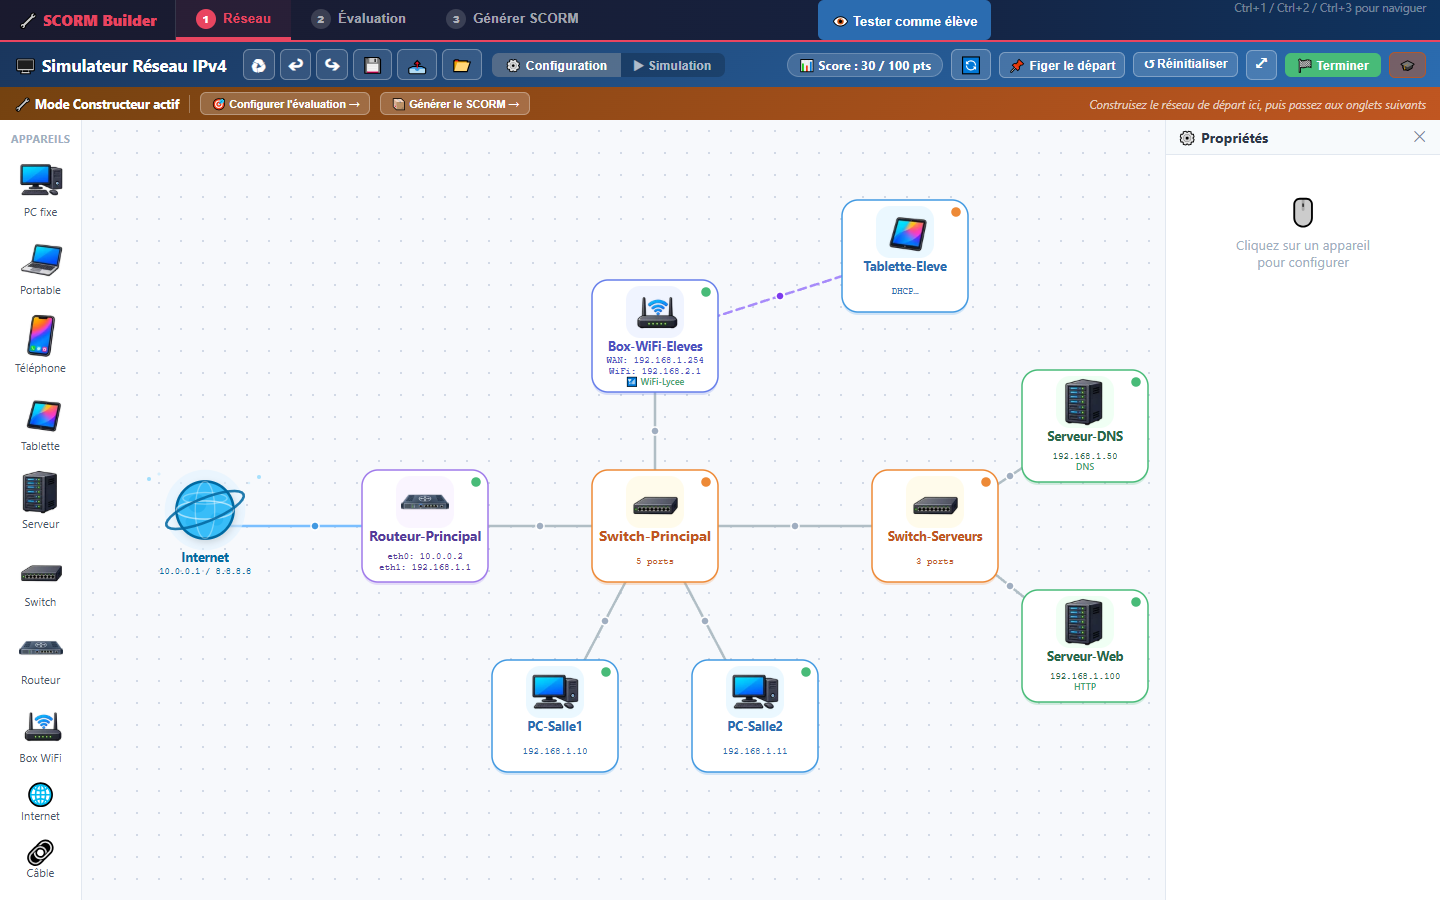
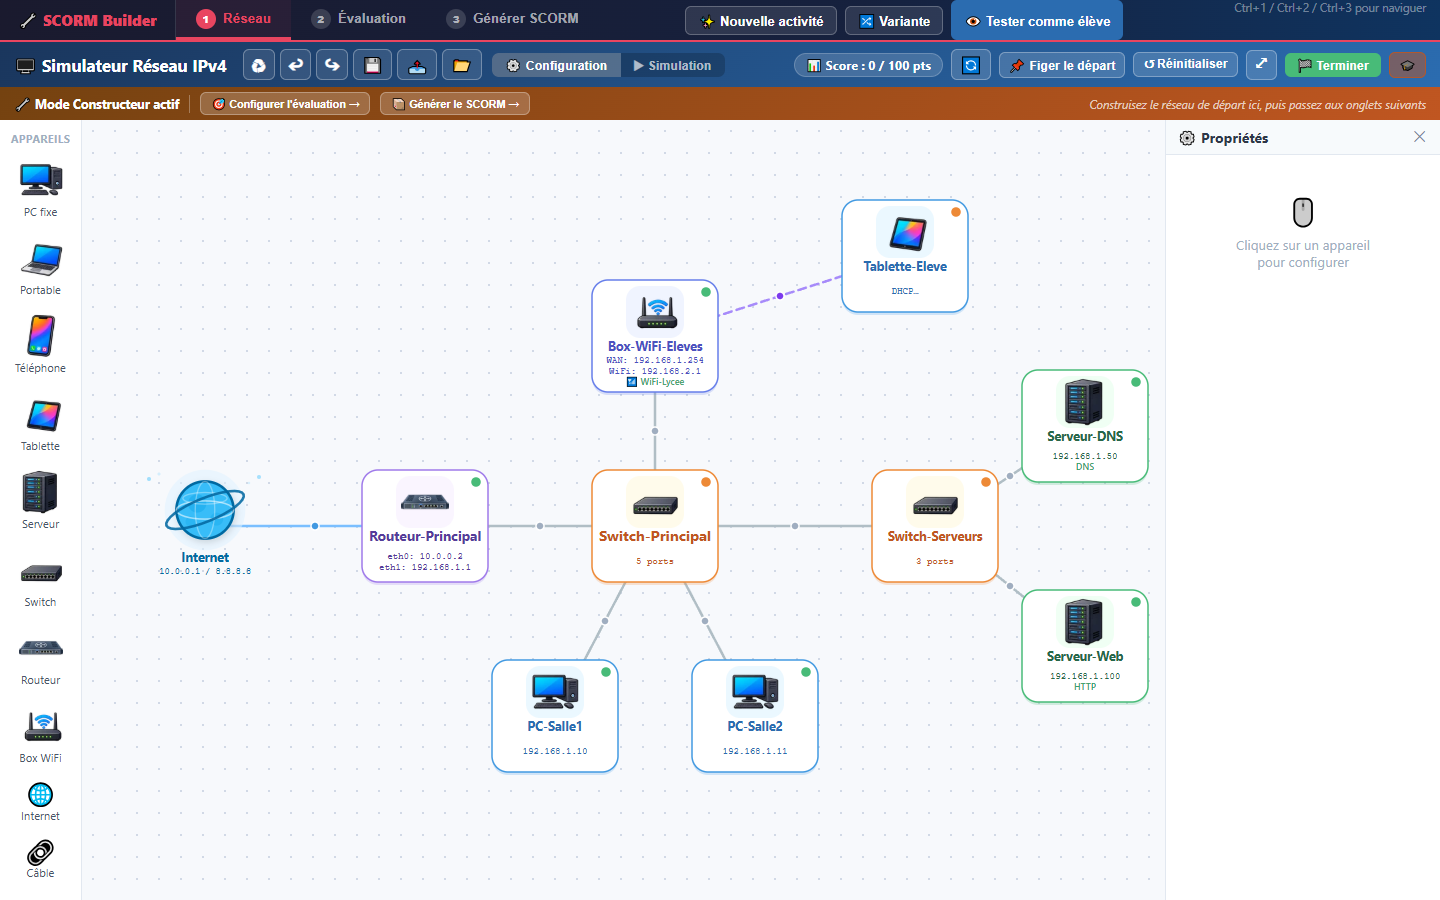
docs: release v1.9.1 — assistant « Nouvelle activité » et variantes
- Guide enseignant : section 2.4 (modèles type × thème × niveau, variantes),
  score du builder égal à celui de l'élève.
- Site : version 1.9.1, assistant et variantes présentés, capture du builder
  refaite, 21 objectifs pour le scénario du lycée.

Changed region(s): [[0.4688, 0.0, 0.7812, 0.0933]]

diff --git a/site/index.html b/site/index.html
@@ -143,7 +143,7 @@ footer .wrap { display: flex; flex-wrap: wrap; gap: 8px 24px; justify-content: s
 
 <header class="top">
   <div class="wrap">
-    <a class="brand" href="#">Simulateur Réseau IPv4<span class="mono">v1.9</span></a>
+    <a class="brand" href="#">Simulateur Réseau IPv4<span class="mono">v1.9.1</span></a>
     <nav aria-label="Sections de la page">
       <a href="#exemples">Exemples</a>
       <a href="#builder">Interface enseignant</a>
@@ -162,9 +162,9 @@ footer .wrap { display: flex; flex-wrap: wrap; gap: 8px 24px; justify-content: s
         <div class="phase">
           <p class="phase-label">Concevoir</p>
           <h3>Créer un réseau</h3>
-          <p>Glissez PC fixes et portables, téléphones, tablettes, serveurs, switchs, routeurs et box WiFi sur le canevas, câblez-les, puis réglez les adresses IP et les services HTTP, DNS et DHCP.</p>
+          <p>Glissez PC fixes et portables, téléphones, tablettes, serveurs, switchs, routeurs et box WiFi sur le canevas, câblez-les, puis réglez les adresses IP et les services HTTP, DNS et DHCP. Ou partez d’un modèle : choisissez le type d’activité, le thème et le niveau, et l’assistant propose réseau, objectifs, pannes et barème, vérifiés avant création.</p>
           <h3>Modifier un réseau</h3>
-          <p>Importez un exemple ou l’un de vos scénarios enregistrés en JSON, adaptez-le à votre classe, puis exportez une nouvelle version.</p>
+          <p>Importez un exemple ou l’un de vos scénarios enregistrés en JSON, adaptez-le à votre classe, puis exportez une nouvelle version. Une variante le décline en version plus guidée ou plus exigeante, ou place ses pannes sur d’autres postes.</p>
         </div>
 
         <div class="phase">
@@ -241,7 +241,7 @@ footer .wrap { display: flex; flex-wrap: wrap; gap: 8px 24px; justify-content: s
             <span class="level">Terminale NSI / BTS SIO</span>
             <h3>Réseau Lycée : diagnostic et réparation</h3>
             <p>Plus d’Internet, des tablettes privées de WiFi, un intranet muet : sept pannes à réparer et un poste à ajouter. Ce scénario couvre les 14 types d’objectifs.</p>
-            <ul class="facts"><li><b>10</b> appareils</li><li><b>20</b> objectifs</li><li><b>7</b> pannes</li><li>seuil <b>65 %</b></li></ul>
+            <ul class="facts"><li><b>10</b> appareils</li><li><b>21</b> objectifs</li><li><b>7</b> pannes</li><li>seuil <b>65 %</b></li></ul>
           </div>
           <div class="actions">
             <a class="btn primary small" href="demo/reseau-lycee/index.html">Tester</a>
@@ -259,6 +259,7 @@ footer .wrap { display: flex; flex-wrap: wrap; gap: 8px 24px; justify-content: s
         <h2>L’interface enseignant</h2>
         <p class="lead">Le SCORM Builder regroupe la conception et l’export dans un seul fichier HTML, sans installation ni compte.</p>
         <ul class="checks">
+          <li><b>Nouvelle activité et Variante :</b> une activité complète à partir d’un modèle, puis déclinée</li>
           <li><b>Réseau :</b> appareils, câbles, adressage et WiFi</li>
           <li><b>Évaluation :</b> objectifs et pannes dans l’ordre voulu, adresses imposées ou au choix de l’élève</li>
           <li><b>Test :</b> score en direct et retour à l’état de départ en un clic</li>
@@ -305,12 +306,12 @@ footer .wrap { display: flex; flex-wrap: wrap; gap: 8px 24px; justify-content: s
         <a class="doc" href="doc-prof.pdf">
           <h3>Guide enseignant</h3>
           <p>Créer une activité avec le builder et la déployer sur Moodle.</p>
-          <span class="mono">doc-prof.pdf · v1.9</span>
+          <span class="mono">doc-prof.pdf · v1.9.1</span>
         </a>
         <a class="doc" href="doc-eleve.pdf">
           <h3>Guide élève</h3>
           <p>Prendre en main l’interface et les commandes du terminal.</p>
-          <span class="mono">doc-eleve.pdf · v1.9</span>
+          <span class="mono">doc-eleve.pdf · v1.9.1</span>
         </a>
       </div>
     </div>
@@ -319,7 +320,7 @@ footer .wrap { display: flex; flex-wrap: wrap; gap: 8px 24px; justify-content: s
 
 <footer>
   <div class="wrap">
-    <span>Simulateur Réseau IPv4 · <a href="https://github.com/SII-GuilbertS/simulateur-reseau-scorm/releases/tag/v1.9">version 1.9</a> · novembre 2026</span>
+    <span>Simulateur Réseau IPv4 · <a href="https://github.com/SII-GuilbertS/simulateur-reseau-scorm/releases/tag/v1.9.1">version 1.9.1</a> · novembre 2026</span>
     <span>Réalisé par <a href="mailto:sylvain.guilbert1@ac-toulouse.fr">Sylvain Guilbert</a> avec l’aide de l’IA Claude</span>
     <a href="https://github.com/SII-GuilbertS/simulateur-reseau-scorm">Code source sur GitHub</a>
     <span>Usage non commercial. Code : <a href="https://github.com/SII-GuilbertS/simulateur-reseau-scorm/blob/master/LICENSE">PolyForm Noncommercial 1.0.0</a>. Guides et scénarios : <a href="https://github.com/SII-GuilbertS/simulateur-reseau-scorm/blob/master/LICENSE-CONTENU.txt">CC BY-NC-SA 4.0</a>.</span>

diff --git a/tools/gen_docs.py b/tools/gen_docs.py
@@ -11,7 +11,7 @@ from reportlab.lib.pagesizes import A4
 from reportlab.lib.units import mm, cm
 from reportlab.lib import colors
 from reportlab.lib.styles import getSampleStyleSheet, ParagraphStyle
-from reportlab.platypus import (
+from reportlab.platypus import (CondPageBreak, 
     SimpleDocTemplate, Paragraph, Spacer, Table, TableStyle,
     PageBreak, HRFlowable
 )
@@ -157,7 +157,7 @@ def page_template(canvas, doc):
     canvas.restoreState()
 
 # ══════════════════════════════════════════════════════════════════════════════
-#  DOC PROF  v1.9
+#  DOC PROF  v1.9.1
 # ══════════════════════════════════════════════════════════════════════════════
 def build_prof(out_path):
     doc = SimpleDocTemplate(out_path, pagesize=A4,
@@ -166,7 +166,7 @@ def build_prof(out_path):
     doc._badge       = 'Mode Constructeur'
     doc._title       = 'Guide Enseignant'
     doc._tagline     = 'Créer et déployer des activités réseau sur Moodle'
-    doc._subtitle    = 'Documentation v1.9'
+    doc._subtitle    = 'Documentation v1.9.1'
     doc._subnote     = 'Outil pédagogique pour l\'enseignement des réseaux informatiques'
     doc._headertitle = 'Guide Enseignant'
     doc._hdr_color   = NAVY
@@ -210,8 +210,10 @@ def build_prof(out_path):
         Paragraph('• Liaison WiFi : utilisez la <b>Box WiFi</b> et reliez-la aux PC.', BODY_L),
         Paragraph('• <b>Ctrl+Z / Ctrl+Y</b> : annuler / rétablir. <b>Ctrl+C / Ctrl+V</b> : copier / coller un appareil.', BODY_L),
         Paragraph('• <b>Ctrl+S</b> : sauvegarder la session dans le navigateur.', BODY_L),
-        Paragraph('• Le <b>score</b> en haut à droite se met à jour à chaque modification du réseau : '
-                  'corrigez le réseau pour vérifier que vos objectifs rapportent bien leurs points.', BODY_L),
+        Paragraph('• Le <b>score</b> en haut à droite est <b>celui de l\'élève</b> : le réseau du builder est le '
+                  'corrigé, mais les pannes de l\'onglet 2 sont appliquées pour le calcul. Une activité bien '
+                  'construite affiche 0 à l\'import ; les commandes de test lancées dans le terminal (ping, '
+                  'nslookup, navigateur) ajoutent leurs points.', BODY_L),
         Paragraph('• <b>Figer le départ</b> mémorise le réseau actuel comme état de départ '
                   '(fait automatiquement à l\'import d\'un scénario). <b>Réinitialiser</b> y revient après vos '
                   'essais : appareils et câbles ajoutés supprimés, éléments supprimés remis, configurations '
@@ -348,8 +350,53 @@ def build_prof(out_path):
         Spacer(1, 4),
     ]
 
+    story += [
+        Paragraph('2.4 Nouvelle activité et variantes', H2),
+        Paragraph(
+            'Le bouton <b>Nouvelle activité</b>, en haut du builder, crée une activité complète à partir d\'un '
+            'modèle : réseau, objectifs, pannes, barème et consignes. Choisissez le type, le thème et le niveau ; '
+            'l\'aperçu montre la liste ordonnée et le résultat d\'une vérification automatique. Tout reste '
+            'modifiable ensuite dans les onglets 1 et 2.',
+            BODY),
+    ]
+    wz_rows = [
+        ['Choix', 'Options', 'Effet'],
+        ['Type', 'Construction', 'L\'élève ajoute un poste, le câble, configure IP, passerelle et DNS ; un test suit chaque étape.'],
+        ['', 'Dépannage', 'Deux à quatre pannes, chacune suivie de sa réparation puis d\'un objectif « Test : ».'],
+        ['', 'Découverte', 'Réseau fonctionnel, exploré avec ping, nslookup, DHCP et le navigateur.'],
+        ['Thème', 'Maison', 'Box WiFi, PC fixes, portable et smartphone en WiFi.'],
+        ['', 'Entreprise', 'Routeur, postes de bureau, serveur intranet (DNS et web).'],
+        ['', 'Salle de classe', 'Routeur, postes élèves, Serveur-Données pour les profils ; l\'ENT est hébergé sur Internet.'],
+        ['Niveau', 'Collège', 'Valeurs données, contraintes affichées, seuil 50 %.'],
+        ['', 'Lycée', 'Adresse à choisir dans une plage, passerelle « routeur du réseau », seuil 60 %.'],
+        ['', 'BTS / Terminale', 'Adresses libres, contraintes masquées, deux réseaux routés, seuil 70 %.'],
+    ]
+    story.append(table_obj([[Paragraph(r[0], CELL_B), Paragraph(r[1], CELL_B if i == 0 else CELL),
+                             Paragraph(r[2], CELL)] for i, r in enumerate(wz_rows)],
+                           [24*mm, 34*mm, CONTENT_W-58*mm]))
+    story += [
+        Spacer(1, 6),
+        callout('La vérification contrôle trois points : <b>0 point à l\'ouverture</b>, seuil impossible à atteindre '
+                'sans rien réparer ni construire, et chaque objectif atteignable une fois le travail fait. En dépannage, '
+                '<b>Autres appareils</b> tire d\'autres postes en panne.', TIP, '💡'),
+        Paragraph(
+            'Le bouton <b>Variante</b> décline l\'activité en cours (scénario fourni, importé ou créé par '
+            'l\'assistant) sans toucher au réseau :',
+            BODY),
+        Paragraph('• <b>Plus guidée</b> : contraintes affichées sous les objectifs d\'adressage, seuil abaissé de 10 points.', BODY_L),
+        Paragraph('• <b>Plus exigeante</b> : adresses exactes laissées au choix quand rien d\'autre ne les utilise, '
+                  'passerelle « routeur du réseau », contraintes et indices masqués, seuil relevé de 10 points.', BODY_L),
+        Paragraph('• <b>Pannes sur d\'autres appareils</b> : la réparation et ses tests suivent, adresses et libellés compris. '
+                  '<b>Une de moins</b> retire la dernière panne avec sa réparation et ses tests ; <b>une de plus</b> en ajoute '
+                  'une sur un poste à adresse fixe, avec sa réparation et son test.', BODY_L),
+        callout('La variante remplace l\'activité en cours : exportez d\'abord le scénario (bouton de la fenêtre) '
+                'pour garder les deux versions. Ce qui ne peut pas changer est signalé.', WARN, '⚠'),
+        Spacer(1, 4),
+    ]
+
     # 3. Scénarios
     story += [
+        CondPageBreak(60*mm),
         Paragraph('3. Scénarios prêts à l\'emploi', H1), hr(),
         Paragraph(
             'Quatre scénarios JSON complets sont fournis dans le dossier <b>scenarios/</b>. '
@@ -384,7 +431,7 @@ def build_prof(out_path):
     story += [Paragraph('4. Workflow complet', H1), hr()]
     wf_p = [[Paragraph(r[0], CELL_B), Paragraph(r[1], CELL_B), Paragraph(r[2], CELL)] for r in [
         ['1', 'Ouvrir le Builder',        'Double-cliquez sur scorm-builder.html dans Chrome ou Firefox.'],
-        ['2', 'Construire le réseau',     'Onglet 1 : appareils, câbles, IP.'],
+        ['2', 'Construire le réseau',     'Onglet 1 : appareils, câbles, IP — ou Nouvelle activité pour partir d\'un modèle.'],
         ['3', 'Configurer l\'évaluation', 'Onglet 2 : objectifs, pannes, score de maîtrise.'],
         ['4', 'Générer',                  'Onglet 3 : SCORM, HTML, énoncé imprimable et son corrigé.'],
         ['5', 'Tester',                   'Corriger le réseau puis Réinitialiser, ou bouton "Aperçu élève".'],
@@ -431,7 +478,7 @@ def build_prof(out_path):
 
 
 # ══════════════════════════════════════════════════════════════════════════════
-#  DOC ELEVE  v1.9
+#  DOC ELEVE  v1.9.1
 # ══════════════════════════════════════════════════════════════════════════════
 def build_eleve(out_path):
     doc = SimpleDocTemplate(out_path, pagesize=A4,
@@ -440,7 +487,7 @@ def build_eleve(out_path):
     doc._badge       = 'Mode Simulation'
     doc._title       = 'Guide Élève'
     doc._tagline     = 'Apprendre les réseaux en simulant les protocoles TCP/IP'
-    doc._subtitle    = 'Guide élève v1.9'
+    doc._subtitle    = 'Guide élève v1.9.1'
     doc._subnote     = 'Activité pédagogique — Lycée'
     doc._headertitle = 'Guide Élève'
     doc._hdr_color   = DGREEN
